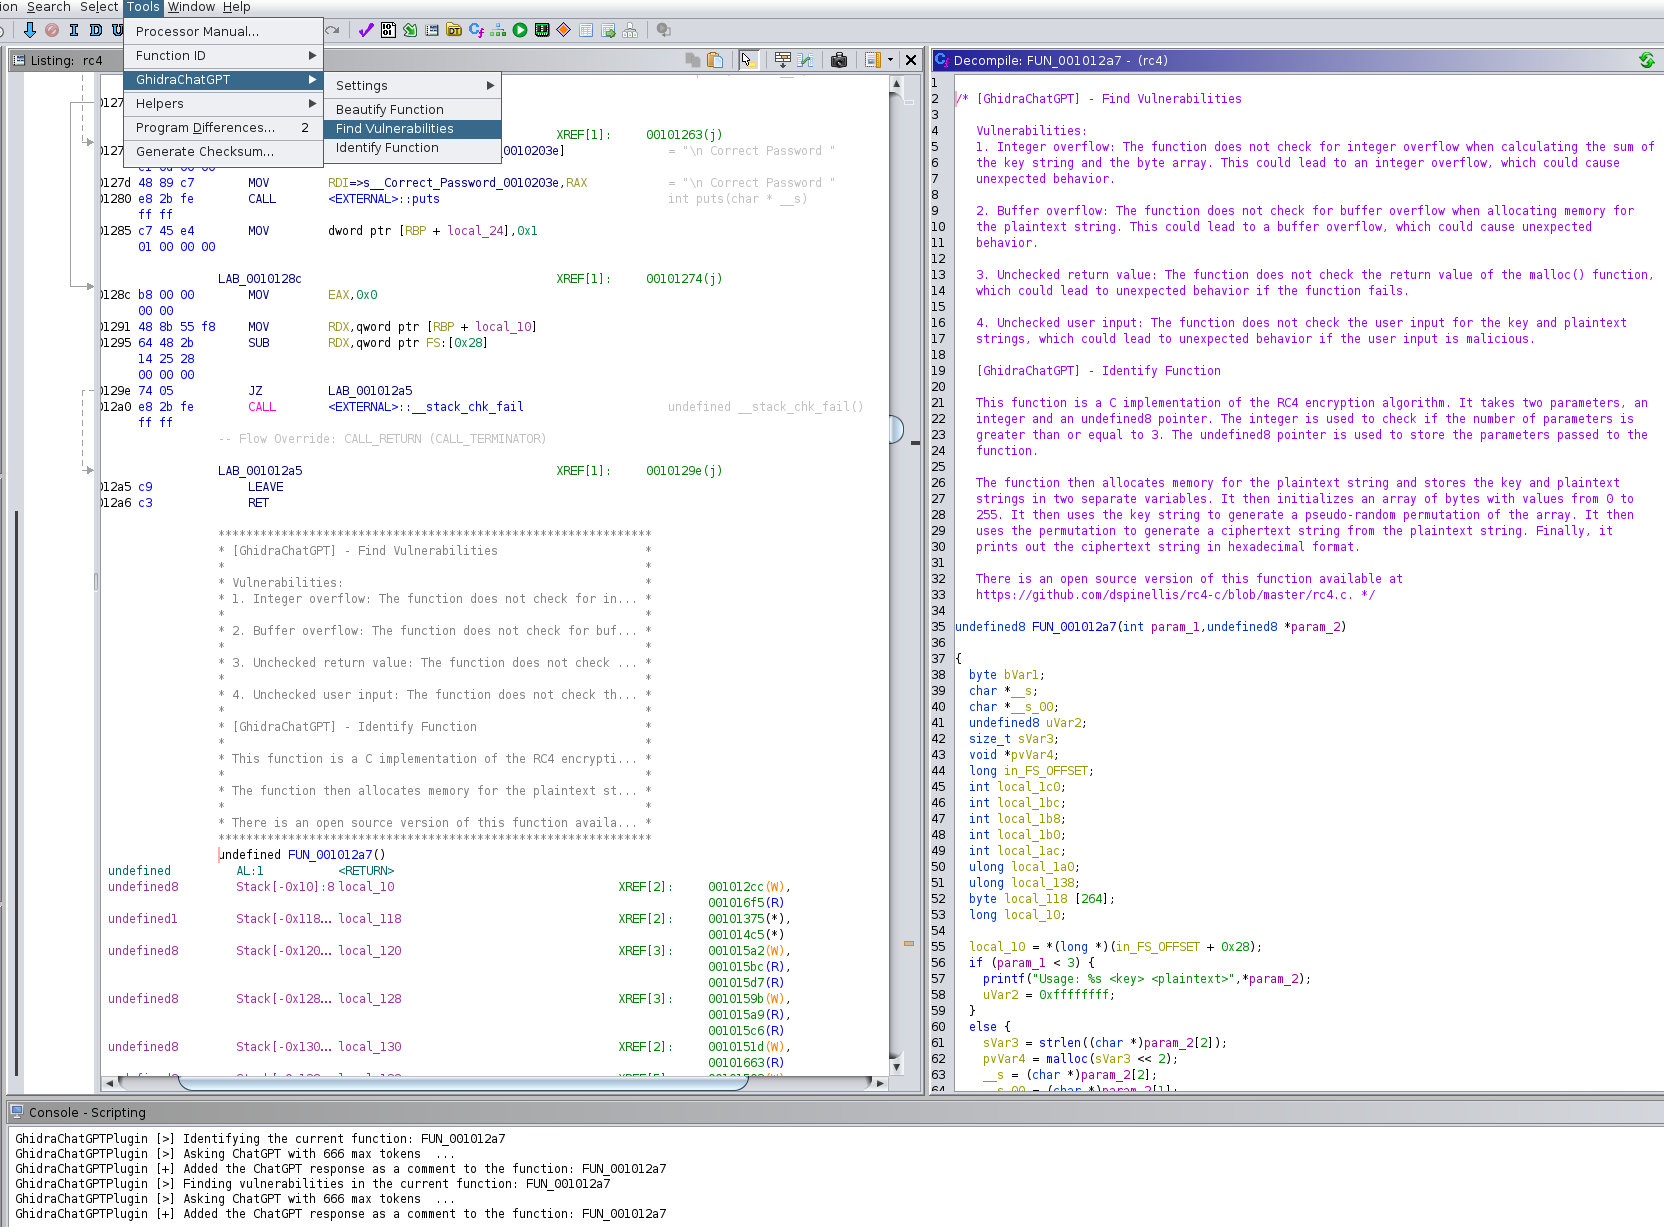
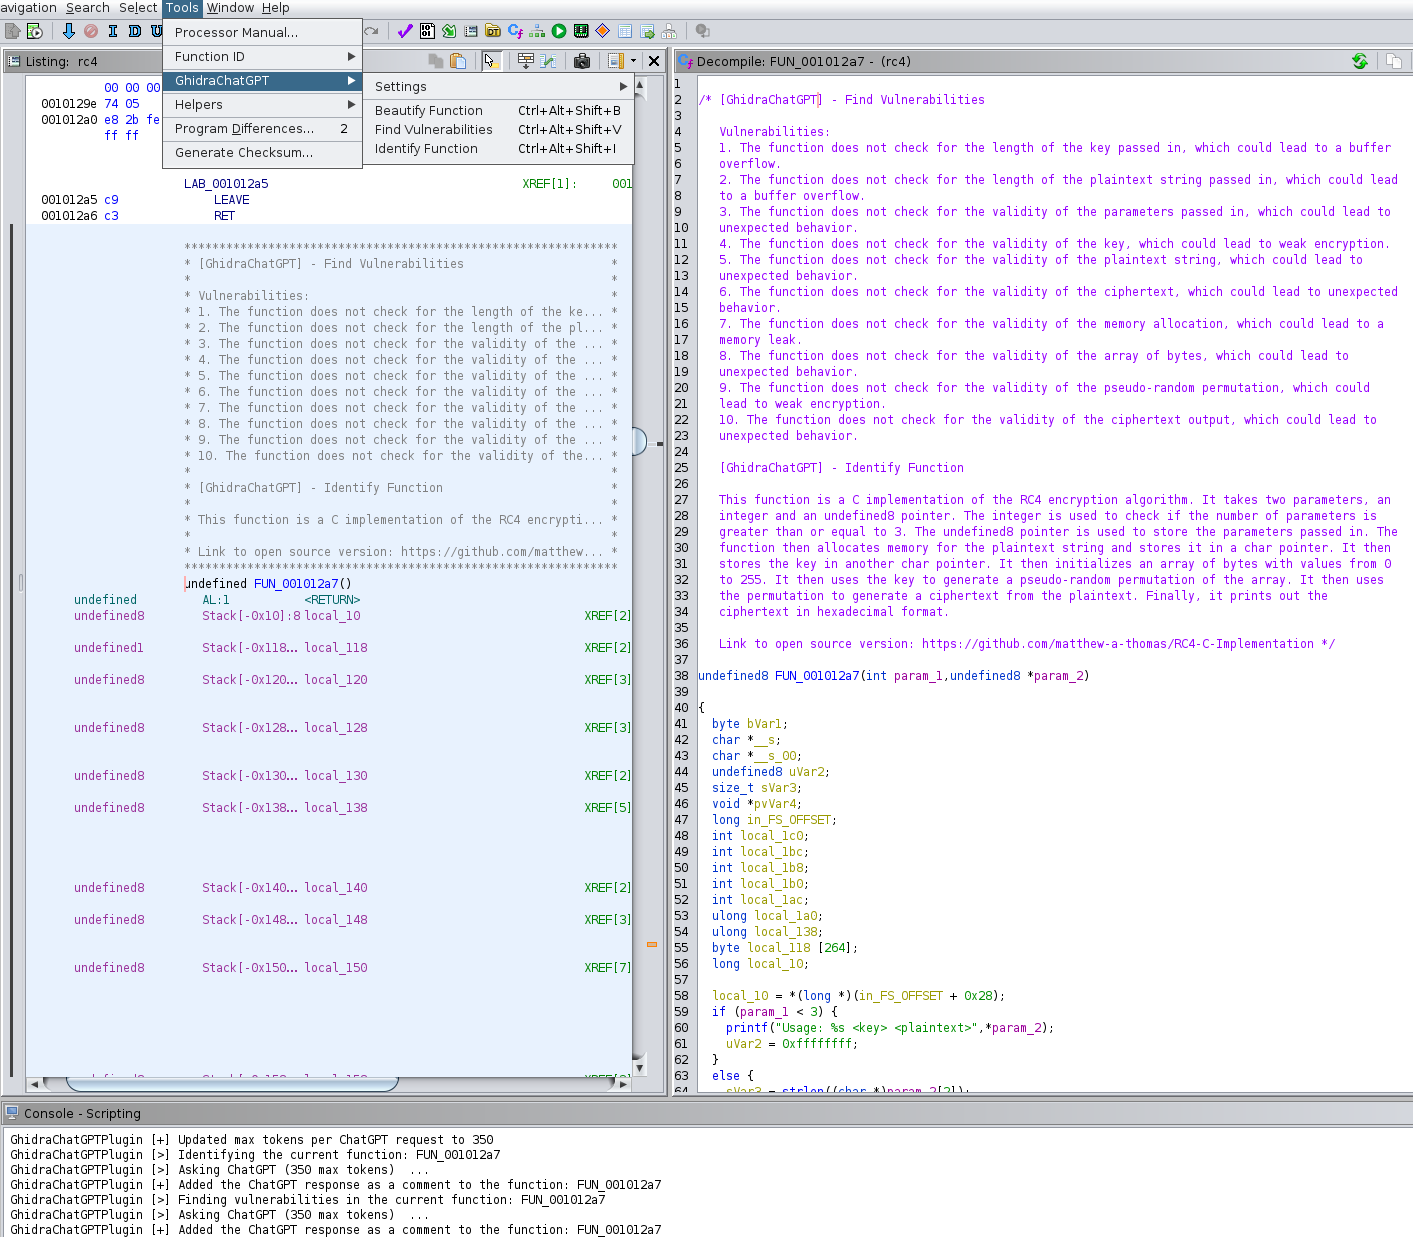
Add key bindings and update README

Changed region(s): [[0.0, 0.0, 1.0, 1.0]]

diff --git a/ghidrachatgpt/src/main/java/ghidrachatgpt/GhidraChatGPTComponent.java b/ghidrachatgpt/src/main/java/ghidrachatgpt/GhidraChatGPTComponent.java
@@ -81,6 +81,7 @@ public class GhidraChatGPTComponent extends ComponentProvider {
         action.setEnabled(true);
         action.setDescription("Identify the function with the help of ChatGPT");
         action.setMenuBarData(new MenuData(new String[] { ToolConstants.MENU_TOOLS, FUNCTION_ID_NAME, "Identify Function" }));
+        action.setKeyBindingData(new KeyBindingData(KeyEvent.VK_I, InputEvent.SHIFT_DOWN_MASK | InputEvent.ALT_DOWN_MASK | InputEvent.CTRL_DOWN_MASK));
         dockingTool.addAction(action);
 
         // Find vulnerabilities
@@ -96,6 +97,7 @@ public class GhidraChatGPTComponent extends ComponentProvider {
         action.setEnabled(true);
         action.setDescription("Find vulnerabilities in the function with the help of ChatGPT");
         action.setMenuBarData(new MenuData(new String[] { ToolConstants.MENU_TOOLS, FUNCTION_ID_NAME, "Find Vulnerabilities" }));
+        action.setKeyBindingData(new KeyBindingData(KeyEvent.VK_V, InputEvent.SHIFT_DOWN_MASK | InputEvent.ALT_DOWN_MASK | InputEvent.CTRL_DOWN_MASK));
         dockingTool.addAction(action);
 
         // Beautify function
@@ -111,6 +113,7 @@ public class GhidraChatGPTComponent extends ComponentProvider {
         action.setEnabled(true);
         action.setDescription("Beautify the function with the help of ChatGPT");
         action.setMenuBarData(new MenuData(new String[] { ToolConstants.MENU_TOOLS, FUNCTION_ID_NAME, "Beautify Function" }));
+        action.setKeyBindingData(new KeyBindingData(KeyEvent.VK_B, InputEvent.SHIFT_DOWN_MASK | InputEvent.ALT_DOWN_MASK | InputEvent.CTRL_DOWN_MASK));
         dockingTool.addAction(action);
 
         // Update OpenAI Token

diff --git a/README.md b/README.md
@@ -40,7 +40,7 @@ Attempts to identify the purpose of the current function and potential open sour
 Attempts to discover all potential vulnerabilities in the current function with the help of ChatGPT. The response from ChatGPT will be added as a comment above the function.
 
 **Beautify Function** (Tools > GhidraChatGPT > Beautify Function)  
-Attempts to beautify the current function with the help of ChatGPT.
+Attempts to beautify the current function by identifying and applying more meaningful variable and function names with the help of ChatGPT.
 
 ### Settings
 **Update OpenAI Token** (Tools > GhidraChatGPT > Settings > Update OpenAI Token)  
